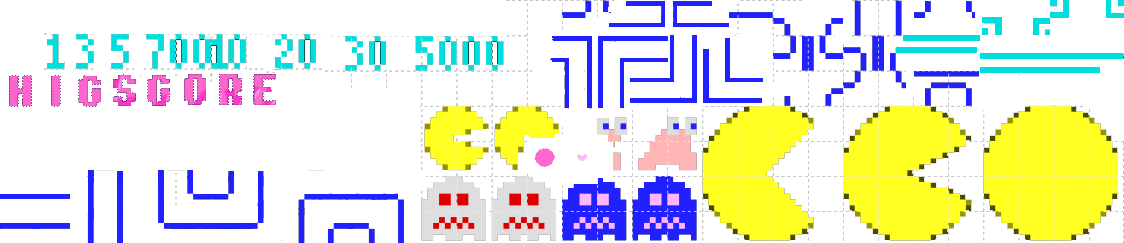
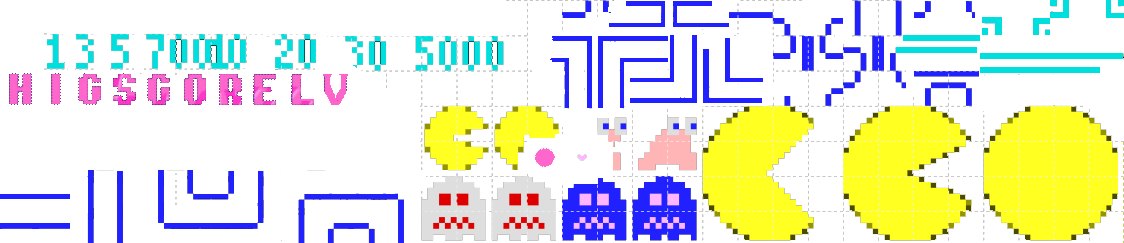
coisas adicionadas

Changed region(s): [[0.0623, 0.2881, 0.1557, 0.4321], [0.2491, 0.2593, 0.3425, 0.4321], [0.0, 0.2881, 0.0311, 0.4609]]

diff --git a/Game1.cs b/Game1.cs
@@ -19,6 +19,14 @@ namespace MsPacMan
 
         private Live l;
 
+        private Dot d;
+
+        private Cherry c;
+
+        private Upgrade u;
+
+        private Pellet pellet;
+
         private List<Dot> dotList;
 
         private List<Pellet> pelletList;
@@ -70,6 +78,14 @@ namespace MsPacMan
         public Player Player => p;
 
         public Live Live => l;
+
+        public Dot Dot => d;
+
+        public Cherry Cherry => c;
+
+        public Upgrade Upgrade => u;
+
+        public Pellet Pellet => pellet;
 
         public Board Board => board;
 
@@ -241,7 +257,7 @@ namespace MsPacMan
                         case '.':
                             spriteBatch.Draw(texture: spriteSheetMap, outRect, new Rectangle(0, 0, 35, 35), Color.White);
                             break;
-                        //SPELLING HIGHSCORE
+                        //SPELLING HIGHSCORE, SCORE AND LIVES USING THE SPRITESHEET
                         case '%':
                             spriteBatch.Draw(texture: spriteSheetMap, outRect, new Rectangle(0, 2 * 35, 35, 35), Color.White);
                             break;
@@ -265,6 +281,12 @@ namespace MsPacMan
                             break;
                         case '~':
                             spriteBatch.Draw(texture: spriteSheetMap, outRect, new Rectangle(7 * 35, 2 * 35, 35, 35), Color.White);
+                            break;
+                        case '»':
+                            spriteBatch.Draw(texture: spriteSheetMap, outRect, new Rectangle(8 * 35, 2 * 35, 35, 35), Color.White);
+                            break;
+                        case '«':
+                            spriteBatch.Draw(texture: spriteSheetMap, outRect, new Rectangle(9 * 35, 2 * 35, 35, 35), Color.White);
                             break;
 
                     }
@@ -336,8 +358,7 @@ namespace MsPacMan
                     }
                     else if(filePosition == '?')
                     {
-
-                        Pellet pellet = new Pellet(this, j, i);
+                        pellet = new Pellet(this, j, i);
 
                         pelletList.Add(pellet);
 
@@ -356,11 +377,11 @@ namespace MsPacMan
                     }
                     else if(filePosition == ' ')
                     {
-                        Dot dot = new Dot(this, j, i);
+                        d = new Dot(this, j, i);
 
-                        dotList.Add(dot);
+                        dotList.Add(d);
 
-                        Components.Add(dot);
+                        Components.Add(d);
                     }
                     else if(filePosition == 'L')
                     {
@@ -372,29 +393,29 @@ namespace MsPacMan
                     }
                     else if(filePosition == 'M')
                     {
-                        Upgrade upgrade = new Upgrade(this, j, i);
+                        u = new Upgrade(this, j, i);
 
-                        upgradeList.Add(upgrade);
+                        upgradeList.Add(u);
 
-                        Components.Add(upgrade);
+                        Components.Add(u);
                     }
                     else if(filePosition == '*')
                     {
                         if(Player.CollectedAllDots() == true)
                         {
-                            Cherry cherry = new Cherry(this, j, i);
+                            c = new Cherry(this, j, i);
 
-                            cherriesList.Add(cherry);
+                            cherriesList.Add(c);
 
-                            Components.Add(cherry);
+                            Components.Add(c);
                         }
                         else
                         {
-                            Dot dot = new Dot(this, j, i);
+                            d = new Dot(this, j, i);
 
-                            dotList.Add(dot);
+                            dotList.Add(d);
 
-                            Components.Add(dot);
+                            Components.Add(d);
                         }
                     }
                     else

diff --git a/Live.cs b/Live.cs
@@ -34,7 +34,7 @@ namespace MsPacMan
 
             spriteBatch = game.SpriteBatch;
 
-            texture = game.SpriteSheet;
+            texture = game.SpriteSheetPlayer;
 
         }
         #endregion
@@ -54,13 +54,13 @@ namespace MsPacMan
 
         public override void Draw(GameTime gameTime)
         {
-            Rectangle SourceLives = new Rectangle(10 * 16, 2 * 16, 16, 16);
+            Rectangle SourceLives = new Rectangle(0, 1 * 32, 32, 32);
 
             Rectangle outRect = new Rectangle(position.X * Game1.outputTileSize, position.Y * Game1.outputTileSize, Game1.outputTileSize, Game1.outputTileSize);
 
             spriteBatch.Begin();
 
-            spriteBatch.Draw(texture: game1.SpriteSheet, outRect, SourceLives, Color.White);
+            spriteBatch.Draw(texture, outRect, SourceLives, Color.White);
 
             spriteBatch.End();
         }

diff --git a/Player.cs b/Player.cs
@@ -185,6 +185,7 @@ namespace MsPacMan
 
             spriteBatch.Draw(texture, outRec, sourceRec, Color.White);
 
+            //prints the score
             spriteBatch.DrawString(minecraft, $"{game1.Player.Score}", new Vector2(27 * Game1.outputTileSize, 1.12F * Game1.outputTileSize), Color.LightBlue);
 
             if (lives <= 0)
@@ -238,6 +239,7 @@ namespace MsPacMan
             return allDotsCollected;
         }
 
+        //counts the score to see if the players gets and extra life
         public void ScoreCount()
         {
             int i;

diff --git a/Ghost.cs b/Ghost.cs
@@ -249,19 +249,11 @@ namespace MsPacMan
 
         public void Die()
         {
-
-            enemyLives--; // tornar propriedade da lista
+            enemyLives--;
 
             game1.Ghosts.Remove(this);
 
-            if (enemyLives <= 0)
-            {
-
-                foreach (DrawableGameComponent gameComponent in game1.Components)
-                {
-                    gameComponent.Enabled = false;
-                }
-            }
+            game1.Components.Remove(this);
         }
 
         #endregion
